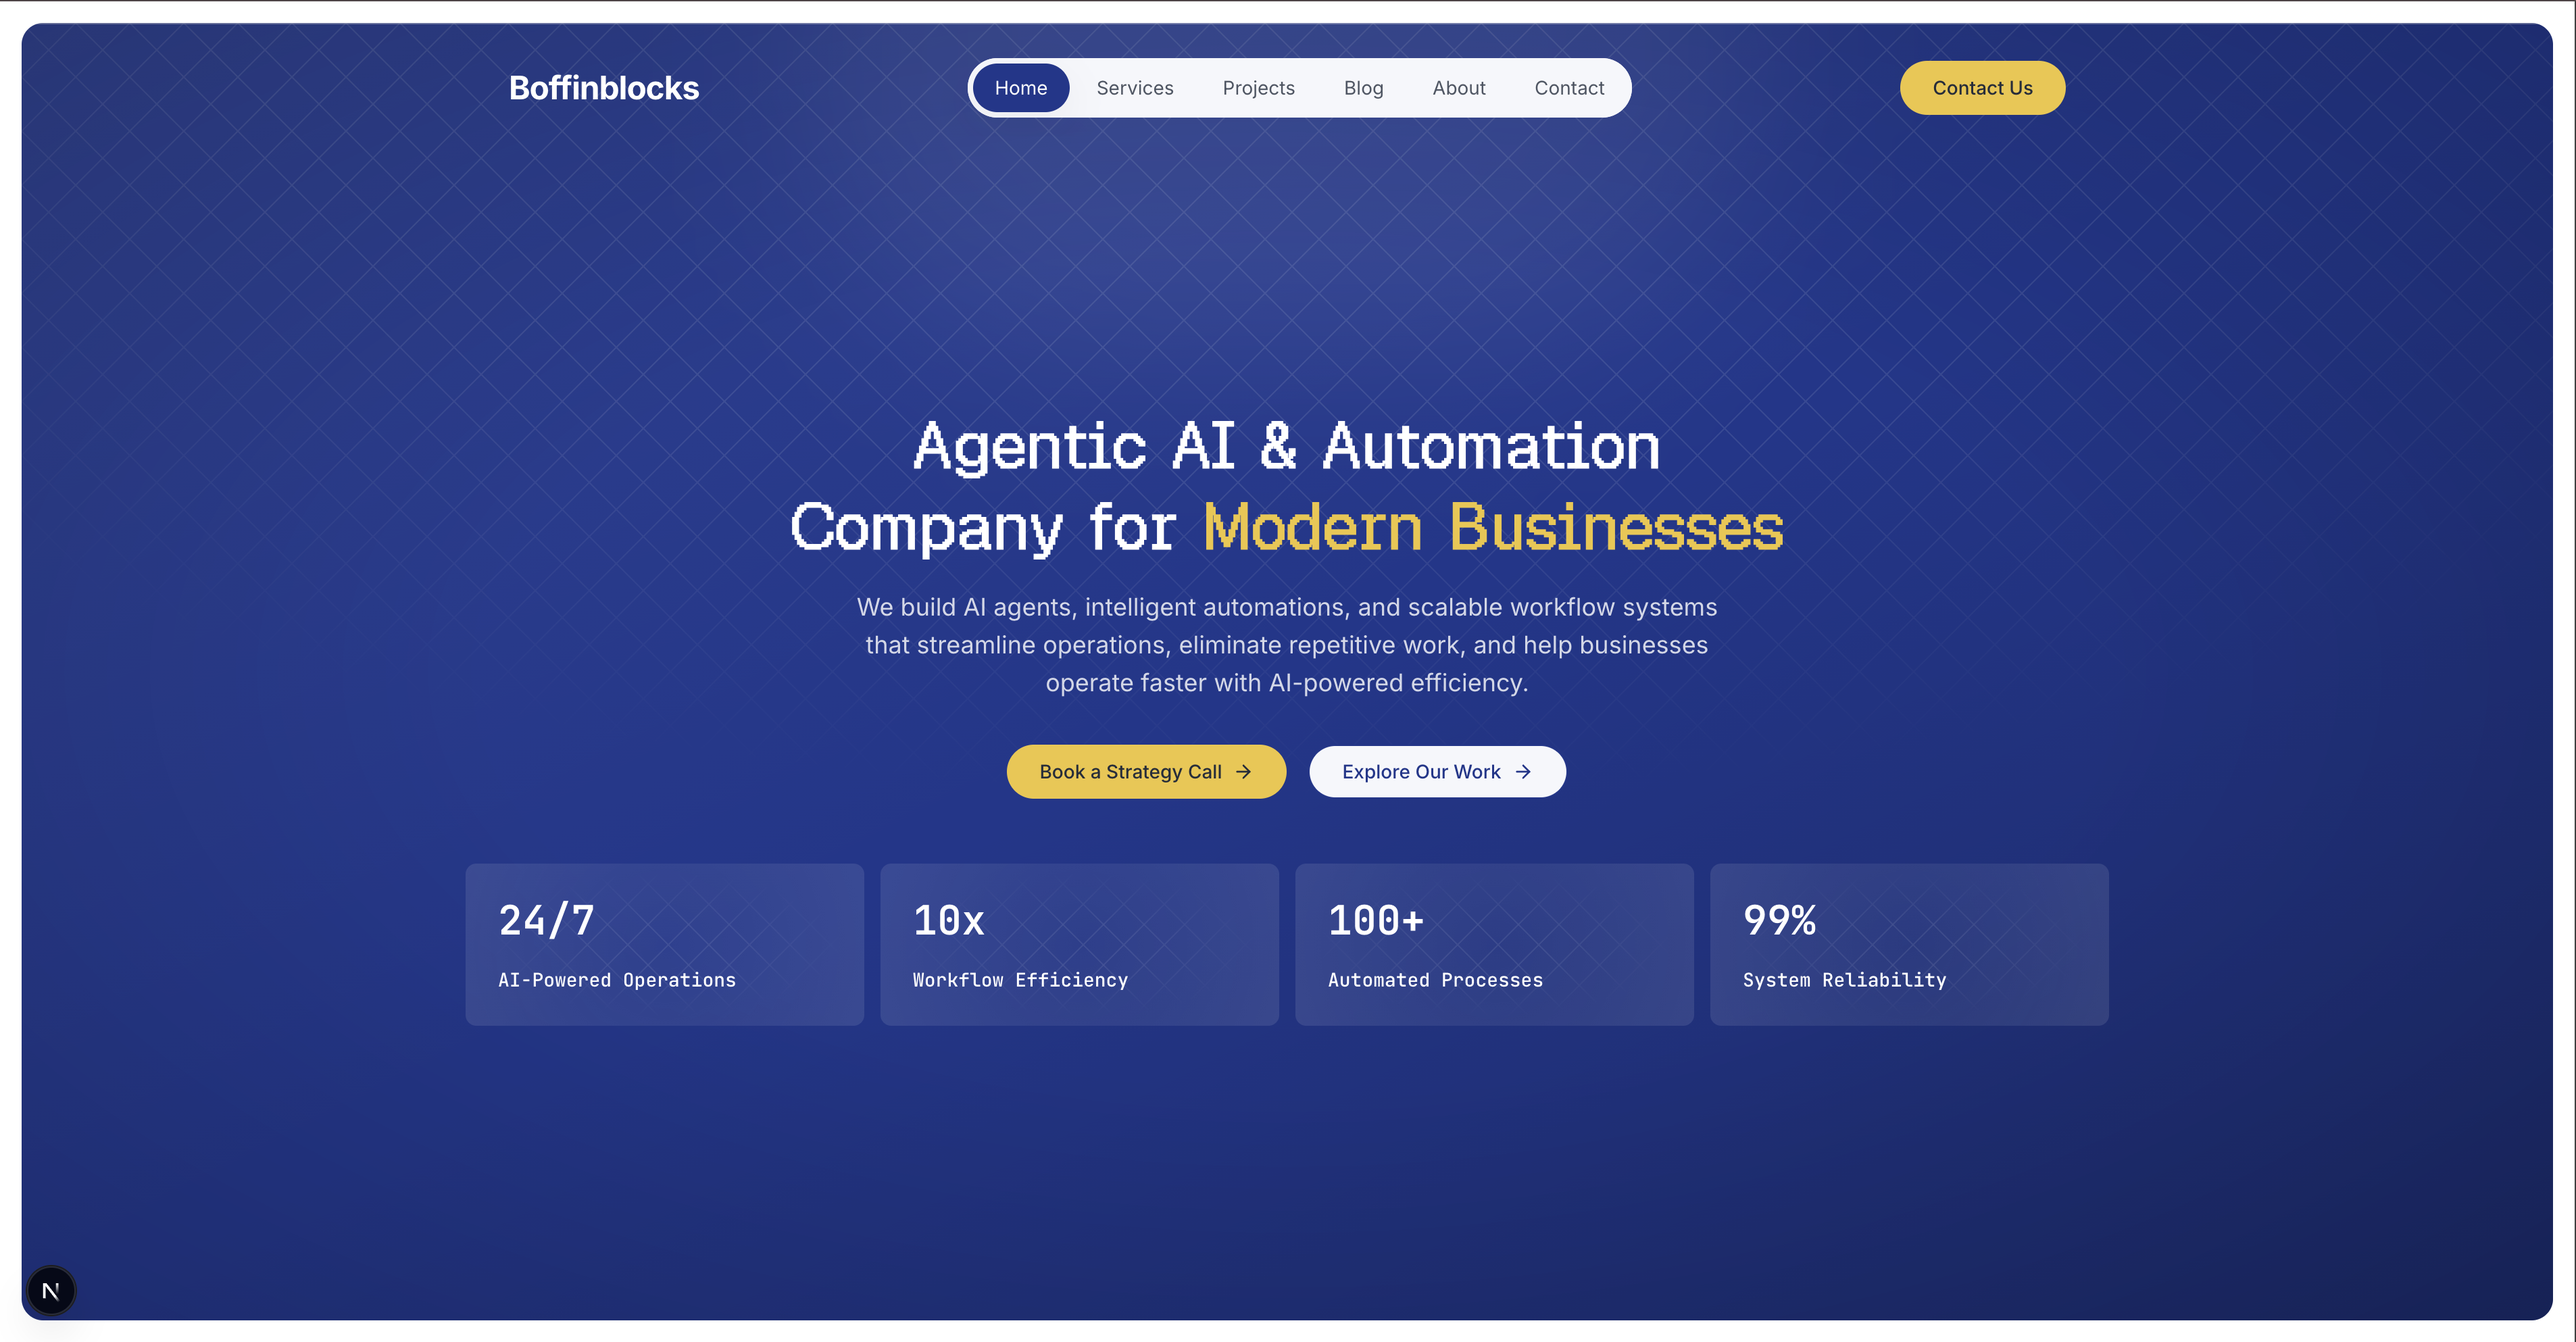
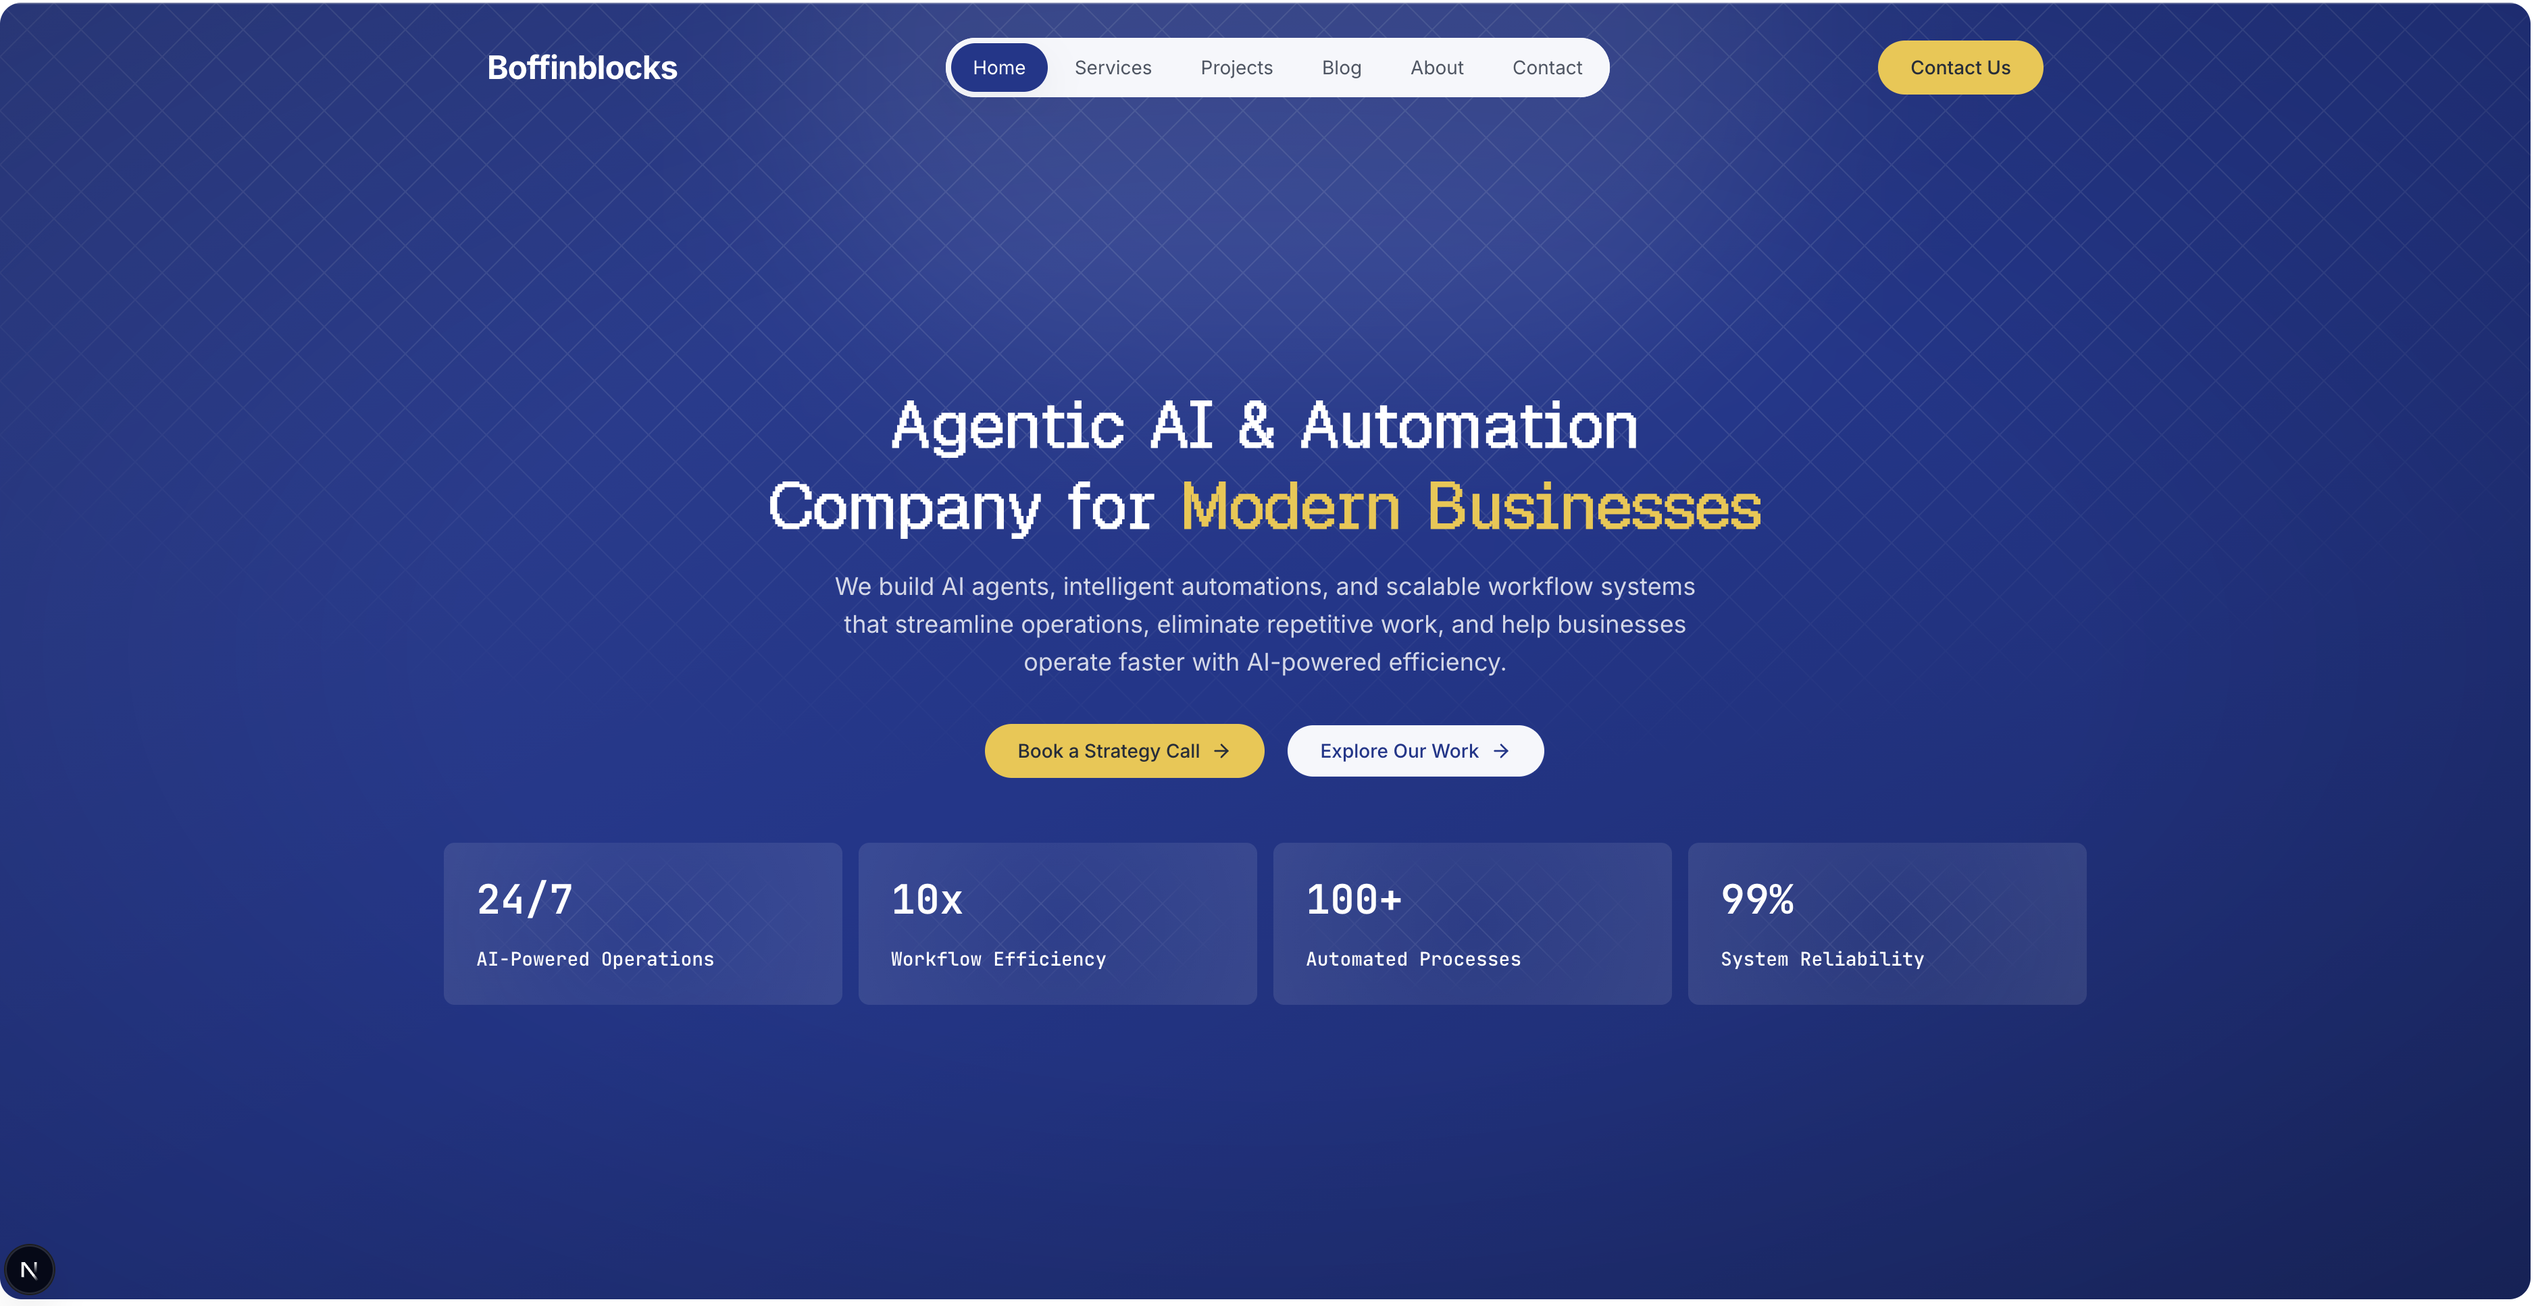
blog and project card chagnes

diff --git a/src/data/sections.ts b/src/data/sections.ts
@@ -61,49 +61,25 @@ export type ProjectItem = {
   slug: string;
 }
 export type BlogItem = {
-  slug: string;
-  category: string;
   title: string;
-  summary: string;
-  publishedAt: string;
-  readTime: string;
+  slug: string;
+  description: string;
   author: string;
+  date: string;
+  category: string;
   image: string;
-  company?: string;
-  iconKey?: string;
-  takeaways?: string[];
 };
 
 export const caseStudies: CaseStudy[] = [
   {
     title: "Automated customer onboarding with AI workflows",
-    company: "FinFlow",
-    category: "Product",
+    company: "boffinblocks",
+    category: "service business",
     summary:
       "Replaced manual verification steps with AI-assisted flows to speed approvals and reduce operational overhead.",
     impact: "42% faster onboarding cycle",
-    image: "/case-studies/finflow.svg",
-    slug: "/case-studies/finflow",
-  },
-  {
-    title: "Internal copilots for support and operations",
-    company: "OpsGrid",
-    category: "Product",
-    summary:
-      "Built role-specific assistants that handled repetitive internal requests and improved team response consistency.",
-    impact: "3.1x increase in weekly throughput",
-    image: "/case-studies/opsgrid.svg",
-    slug: "/case-studies/opsgrid",
-  },
-  {
-    title: "Realtime analytics platform modernization",
-    company: "MetricLane",
-    category: "Product",
-    summary:
-      "Migrated dashboards and APIs to a scalable architecture with clearer insights and lower latency.",
-    impact: "58% reduction in dashboard load time",
-    image: "/case-studies/metriclane.svg",
-    slug: "/case-studies/metriclane",
+    image: "/projects/boffinblocks/banner.png",
+    slug: "/projects/boffinblocks",
   },
 ];
 
@@ -267,56 +243,14 @@ export const stats: StatItem[] = [
 
 export const blogs: BlogItem[] = [
   {
-    slug: "ai-automation-roi-playbook",
-    category: "Strategy",
-    title: "How AI automation creates compounding growth for service businesses",
-    summary:
-      "A practical framework to identify automation opportunities, prioritize quick wins, and scale without operational friction.",
-    publishedAt: "May 2026",
-    readTime: "8 min read",
-    author: "BoffinBlocks Strategy Team",
-    image: "/case-studies/finflow.svg",
-    iconKey: "calendar",
-    takeaways: [
-      "Identify repetitive, low-variance workflows before automating.",
-      "Measure ROI in time saved, quality gains, and turnaround speed.",
-      "Keep human review in place for exceptions and compliance-sensitive steps.",
-    ],
-  },
-  {
-    slug: "ai-automation-roi-playbook-2",
-    category: "Strategy",
-    title: "How AI automation creates compounding growth for service businesses",
-    summary:
-      "A practical framework to identify automation opportunities, prioritize quick wins, and scale without operational friction.",
-    publishedAt: "May 2026",
-    readTime: "8 min read",
-    author: "BoffinBlocks Strategy Team",
-    image: "/case-studies/finflow.svg",
-    iconKey: "calendar",
-    takeaways: [
-      "Identify repetitive, low-variance workflows before automating.",
-      "Measure ROI in time saved, quality gains, and turnaround speed.",
-      "Keep human review in place for exceptions and compliance-sensitive steps.",
-    ],
-  },
-  {
-    slug: "ai-automation-roi-playbook-3",
-    category: "Strategy",
-    title: "How AI automation creates compounding growth for service businesses",
-    summary:
-      "A practical framework to identify automation opportunities, prioritize quick wins, and scale without operational friction.",
-    publishedAt: "May 2026",
-    readTime: "8 min read",
-    author: "BoffinBlocks Strategy Team",
-    image: "/case-studies/finflow.svg",
-    iconKey: "calendar",
-    takeaways: [
-      "Identify repetitive, low-variance workflows before automating.",
-      "Measure ROI in time saved, quality gains, and turnaround speed.",
-      "Keep human review in place for exceptions and compliance-sensitive steps.",
-    ],
-  },
+    title: "Top Ecommerce Trends in 2026",
+    slug: "top-ecommerce-trends-2026",
+    description: "Discover the latest ecommerce trends shaping online businesses in 2026.",
+    author: "Admin",
+    date: "2026-05-18",
+    category: "Ecommerce",
+    image: "/blogs/ecommerce/banner.jpeg"
+  }
 
 ];
 

diff --git a/src/components/cards/project-card.tsx b/src/components/cards/project-card.tsx
@@ -5,13 +5,13 @@ import type { LucideIcon } from "lucide-react";
 
 import { Button, buttonVariants } from "../ui/button";
 import { Card, CardContent, CardFooter } from "../ui/card";
-import { CaseStudy } from "@/types/sections";
+import { CaseStudy } from "@/data/sections";
 
 
 
-const FeatureCard = ({ study }: { study: CaseStudy }) => {
+const ProjectCard = ({ study }: { study: CaseStudy }) => {
     return (
-        <Card className="group gap-0 overflow-hidden rounded-3xl   transition-all duration-300 hover:-translate-y-0.5 bg-primary p-2">
+        <Card className="group gap-0 overflow-hidden rounded-3xl   transition-all duration-300 hover:-translate-y-0.5 bg-background p-3">
             <div className="relative aspect-16/12 overflow-hidden  rounded-2xl">
                 <Image
                     src={study.image}
@@ -22,22 +22,23 @@ const FeatureCard = ({ study }: { study: CaseStudy }) => {
                 />
                 <div
                     aria-hidden
-                    className="pointer-events-none absolute inset-0 bg-linear-to-t from-black/45 via-black/10 to-transparent"
+                    className="pointer-events-none absolute inset-0 bg-linear-to-b from-black/55 via-black/10 to-transparent"
                 />
 
                 <div className="absolute left-4 top-4 flex items-center gap-2">
-                    <span className="inline-flex items-center rounded-full border border-white/35 bg-white/15 px-3 py-1 text-xs font-medium tracking-wide text-white backdrop-blur-sm">
+                    <span className="inline-flex items-center rounded-full border border-primary-foreground/25  px-3 py-1 text-xs font-medium tracking-wide text-white backdrop-blur-sm">
                         {study.company}
                     </span>
                 </div>
             </div>
 
-            <CardContent className="flex flex-1 flex-col p-4 glass-radial mt-2 rounded-2xl justify-between">
-                <div>
-                    <h3 className="text-xl font-semibold leading-snug tracking-tight text-primary-foreground">
+            <CardContent className="flex flex-1 flex-col p-4  mt-2 rounded-2xl justify-between">
+                <div >
+
+                    <h3 className="text-xl font-semibold leading-snug tracking-tight text-foreground">
                         {study.title}
                     </h3>
-                    <p className="mt-3 text-sm leading-relaxed text-primary-foreground line-clamp-2">
+                    <p className="mt-3 text-sm leading-relaxed text-foreground line-clamp-2">
                         {study.summary}
                     </p>
                 </div>
@@ -46,7 +47,7 @@ const FeatureCard = ({ study }: { study: CaseStudy }) => {
                     <Link
                         href={`/projects/${study.slug}`}
                         aria-label={`Read ${study.company} case study`}
-                        className={buttonVariants({ variant: "link" })}                   >
+                        className={buttonVariants({ variant: "outline", size: "lg", className: "hover:bg-primary hover:text-primary-foreground" })}                   >
                         Read more
                         <ArrowUpRight className="h-4 w-4" />
                     </Link>
@@ -56,4 +57,4 @@ const FeatureCard = ({ study }: { study: CaseStudy }) => {
     );
 };
 
-export default FeatureCard;
+export default ProjectCard;

diff --git a/src/components/cards/blog-card.tsx b/src/components/cards/blog-card.tsx
@@ -1,21 +1,15 @@
 import Image from 'next/image';
 import Link from 'next/link';
 import { buttonVariants } from '../ui/button';
-import { ArrowUpRight } from 'lucide-react';
+import { ArrowRight, ArrowUpRight } from 'lucide-react';
+import { BlogItem } from '@/data/sections';
 
-interface BlogCardProps {
-    title: string;
-    summary: string;
-    publishedAt: string;
-    readTime: string;
-    image: string;
-    slug: string;
-}
-export const BlogCard = ({ title, summary, publishedAt, readTime, image, slug }: BlogCardProps) => {
+
+export const BlogCard = ({ title, slug, description, author, date, category, image }: BlogItem) => {
     return (
         <article
             key={slug}
-            className="group overflow-hidden rounded-2xl bg-primary p-2"
+            className="group overflow-hidden rounded-2xl bg-background p-3"
         >
             <div className="relative aspect-16/10 overflow-hidden rounded-2xl">
                 <Image
@@ -27,21 +21,21 @@ export const BlogCard = ({ title, summary, publishedAt, readTime, image, slug }:
                 />
             </div>
 
-            <div className=" p-4 glass-radial mt-2  rounded-2xl">
-                <h2 className="text-lg font-semibold leading-snug line-clamp-2 text-primary-foreground">{title}</h2>
-                <p className="mt-3 text-sm leading-relaxed text-muted/50 line-clamp-3">{summary}</p>
+            <div className=" p-4   rounded-2xl">
+                <h2 className="text-lg font-semibold leading-snug line-clamp-2 text-foreground">{title}</h2>
+                <p className="mt-3 text-sm leading-relaxed text-foreground-muted line-clamp-3">{description}</p>
 
                 <div className="mt-2 flex items-center justify-between ">
-                    <p className="text-sm font-medium text-primary-foreground/70">
-                        {publishedAt} - {readTime}
+                    <p className="text-xs  text-foreground-muted/50">
+                        {date}
                     </p>
                     <Link
                         href={`/blog/${slug}`}
-                        className={buttonVariants({ variant: "ghost" })}
+                        className={buttonVariants({ variant: "outline", size: "lg", className: "hover:bg-primary hover:text-primary-foreground" })}
                         aria-label={`Open article: ${title}`}
                     >
                         Read Article
-                        <ArrowUpRight className="h-4 w-4" />
+                        <ArrowRight className="h-4 w-4 group-hover:translate-x-1  transition-all duration-300" />
                     </Link>
                 </div>
             </div>

diff --git a/src/components/sections/featured.tsx b/src/components/sections/featured.tsx
@@ -3,7 +3,7 @@ import Link from "next/link";
 import { Container } from "@/components/common/container";
 import { SectionHeading } from "@/components/common/section-heading";
 import { buttonVariants } from "../ui/button";
-import FeatureCard from "../cards/feature-card";
+import ProjectCard from "../cards/project-card";
 import { SectionWrapper } from "../common/section-wrapper";
 import { CaseStudy } from "@/data/sections";
 
@@ -39,7 +39,7 @@ export function FeaturedSection({ studies }: FeaturedSectionProps) {
           {studies?.map((study, index: number) => {
             const key = `${study.slug}-${index}`;
             return (
-              <FeatureCard key={key} study={study} />
+              <ProjectCard key={key} study={study} />
             );
           })}
         </div>

diff --git a/src/app/blog/page.tsx b/src/app/blog/page.tsx
@@ -2,18 +2,15 @@ import { SubHero } from "@/components/common/sub-hero";
 import { BlogPageSection } from "@/components/sections/blog-page";
 import CtaSection from "@/components/sections/cta";
 import { TestimonialsSection } from "@/components/sections/testimonials";
-import blogPageData from "@/data/blog.json"
 import { blogs, testimonials } from "@/data/sections";
-import type { BlogPage } from "@/types/sections";
 
 
 
 export default function BlogPage() {
-  const { sections } = blogPageData as BlogPage;
   return (
     <main className="relative min-h-screen">
       <SubHero
-        eyebrow="Blog"
+        // eyebrow="Blog"
         title="Our Blog"
       />
       <BlogPageSection blogs={blogs} />

diff --git a/src/app/about/page.tsx b/src/app/about/page.tsx
@@ -5,15 +5,12 @@ import CtaSection from "@/components/sections/cta";
 import { TestimonialsSection } from "@/components/sections/testimonials";
 import { WhoWEAreSection } from "@/components/sections/who-we-are";
 import { WorkProcessSection } from "@/components/sections/work-process";
-import aboutData from "@/data/about.json";
 import { coreValues, processPoints, testimonials } from "@/data/sections";
-import type { AboutPage as AboutPageType } from "@/types/sections";
 
 
 
 
 export default function AboutPage() {
-  const { sections } = aboutData as AboutPageType;
   return (
     <main className="relative min-h-screen">
       <SubHero

diff --git a/src/app/contact/page.tsx b/src/app/contact/page.tsx
@@ -3,7 +3,6 @@ import { ContactFormSection } from "@/components/sections/contact-form";
 import CtaSection from "@/components/sections/cta";
 import { TestimonialsSection } from "@/components/sections/testimonials";
 import { testimonials } from "@/data/sections";
-import type { ContactPage } from "@/types/sections";
 export default function ContactPage() {
   return (
     <main className="relative min-h-screen">

diff --git a/src/components/sections/project.tsx b/src/components/sections/project.tsx
@@ -1,7 +1,7 @@
 import React from 'react'
 import { SectionWrapper } from '@/components/common/section-wrapper'
 import { Container } from '@/components/common/container'
-import FeatureCard from '../cards/feature-card';
+import FeatureCard from '../cards/project-card';
 import { ProjectItem } from '@/data/sections';
 interface ProjectSectionProps {
     projects: ProjectItem[]

diff --git a/src/components/ui/card.tsx b/src/components/ui/card.tsx
@@ -9,7 +9,7 @@ function Card({ className, ...props }: React.ComponentProps<"div">) {
     <div
       data-slot="card"
       className={cn(
-        "bg-card text-card-foreground flex flex-col gap-6 rounded-xl border py-6 shadow-sm",
+        "bg-background text-card-foreground flex flex-col gap-6 rounded-xl  py-6 ",
         className,
       )}
       {...props}
